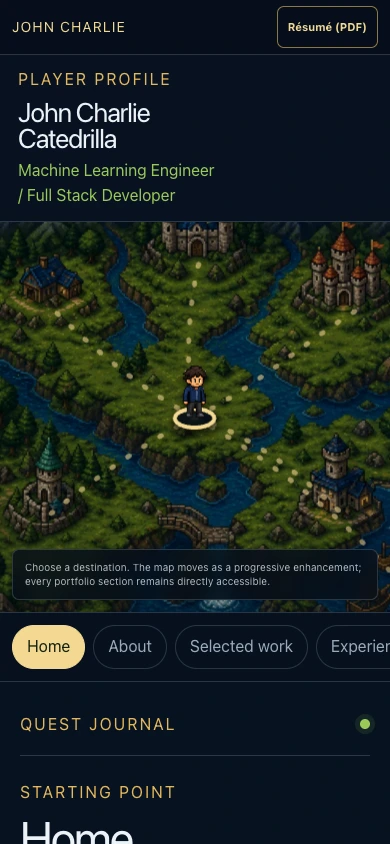
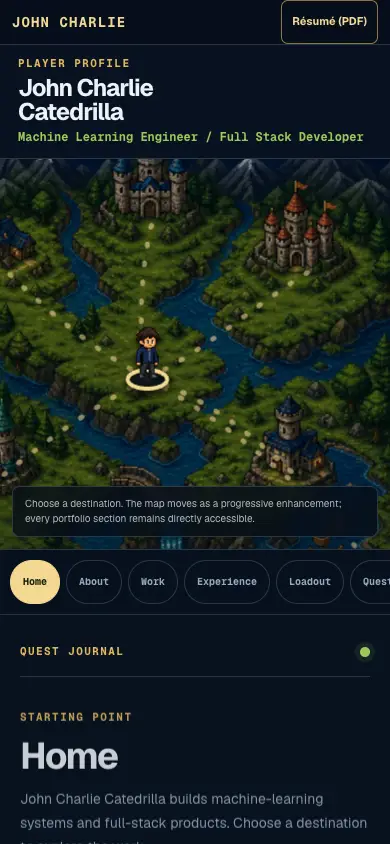
fix: align portfolio with approved review contract

diff --git a/app/home.module.css b/app/home.module.css
@@ -64,13 +64,14 @@
 }
 
 .topnavLink {
-  min-height: 42px;
+  min-height: 44px;
   display: inline-flex;
   align-items: center;
   padding: 0 14px;
   border: 1px solid transparent;
   border-radius: var(--radius-soft);
   color: var(--muted);
+  font-family: var(--font-body);
   font-size: 13px;
   font-weight: 700;
   text-decoration: none;
@@ -131,9 +132,15 @@
 
 .profileTitle {
   margin: 14px 0 8px;
+  font-family: var(--font-body);
   font-size: clamp(28px, 2.3vw, 42px);
+  font-weight: 700;
   line-height: 0.98;
   letter-spacing: -0.045em;
+}
+
+.profileNamePart {
+  display: block;
 }
 
 .role {
@@ -149,44 +156,6 @@
   line-height: 1.65;
 }
 
-.profileActions {
-  margin-top: 14px;
-  display: grid;
-  gap: 10px;
-}
-
-.primaryAction {
-  min-height: 44px;
-  display: inline-flex;
-  align-items: center;
-  justify-content: center;
-  padding: 0 16px;
-  border-radius: var(--radius-soft);
-  font: 700 12px / 1 var(--font-display);
-  letter-spacing: 0.05em;
-  text-transform: uppercase;
-  text-decoration: none;
-}
-
-.primaryAction {
-  border: 1px solid var(--line-strong);
-  color: #13200c;
-  background: var(--gold-soft);
-}
-
-.primaryAction:visited {
-  color: #13200c;
-}
-
-.primaryAction:hover {
-  background: var(--gold);
-  color: #13200c;
-}
-
-.primaryAction:active {
-  color: var(--gold-soft);
-  background: rgba(229, 183, 91, 0.35);
-}
 
 
 .profileRecord {
@@ -344,7 +313,10 @@
   color: var(--foreground);
   background: rgba(4, 13, 25, 0.88);
   box-shadow: 0 8px 24px rgba(0, 0, 0, 0.28);
-  font: 700 11px / 1 var(--font-display);
+  font-family: var(--font-display);
+  font-size: 11px;
+  font-weight: 700;
+  line-height: 1;
   letter-spacing: 0.05em;
   text-transform: uppercase;
   text-decoration: none;
@@ -452,7 +424,9 @@
 
 .journalTitle {
   margin: 10px 0 14px;
+  font-family: var(--font-body);
   font-size: clamp(30px, 3vw, 52px);
+  font-weight: 700;
   line-height: 0.96;
   letter-spacing: -0.045em;
 }
@@ -542,7 +516,9 @@
 
 .sectionTitle {
   margin: 10px 0 16px;
+  font-family: var(--font-body);
   font-size: clamp(30px, 4vw, 52px);
+  font-weight: 700;
   line-height: 0.98;
   letter-spacing: -0.04em;
 }
@@ -565,6 +541,44 @@
   max-width: 68ch;
   font-size: 15px;
   line-height: 1.75;
+}
+.approach {
+  margin-top: 30px;
+}
+
+.approachTitle {
+  margin: 0 0 16px;
+  font: 700 18px / 1.2 var(--font-display);
+}
+
+.approachList {
+  margin: 0;
+  padding: 0;
+  list-style: none;
+  display: grid;
+  grid-template-columns: repeat(auto-fit, minmax(min(100%, 220px), 1fr));
+  gap: 14px;
+}
+
+.approachList li {
+  padding: 18px;
+  border: 1px solid var(--line);
+  border-radius: var(--radius);
+  background: var(--surface-soft);
+}
+
+.approachList strong {
+  display: block;
+  margin-bottom: 8px;
+  font: 700 13px / 1.3 var(--font-display);
+  color: var(--gold-soft);
+}
+
+.approachList p {
+  margin: 0;
+  color: var(--muted);
+  font-size: 14px;
+  line-height: 1.6;
 }
 
 /* Selected work cards */
@@ -834,8 +848,8 @@
     position: sticky;
     top: 0;
     z-index: 10;
-    min-height: 48px;
-    padding: 6px 12px;
+    min-height: 44px;
+    padding: 0 12px;
   }
 
   .brand span,
@@ -860,7 +874,15 @@
 
   .profileTitle {
     margin: 2px 0;
-    font-size: 27px;
+    font-size: 24px;
+  }
+
+  .profileNamePart {
+    display: inline;
+  }
+
+  .profileNamePart:last-child {
+    display: block;
   }
 
   .role {
@@ -875,9 +897,6 @@
     display: none;
   }
 
-  .profileActions {
-    display: none;
-  }
 
   .mapViewport {
     position: relative;
@@ -907,9 +926,9 @@
 
   .destinationRail {
     display: flex;
-    gap: 8px;
+    gap: 6px;
     overflow-x: auto;
-    padding: 12px;
+    padding: 10px;
     border-top: 1px solid var(--line);
     border-bottom: 1px solid var(--line);
     background: #07111f;
@@ -921,12 +940,12 @@
     min-height: 44px;
     display: inline-flex;
     align-items: center;
-    padding: 0 14px;
+    padding: 0 12px;
     border: 1px solid var(--line);
     border-radius: 999px;
     color: var(--muted);
     background: transparent;
-    font: 700 11px / 1 var(--font-display);
+    font: 700 10px / 1 var(--font-display);
     text-decoration: none;
     white-space: nowrap;
   }
@@ -957,7 +976,7 @@
   }
 
   .journalTitle {
-    font-size: clamp(38px, 12vw, 58px);
+    font-size: clamp(34px, 9.5vw, 40px);
   }
 }
 
@@ -979,7 +998,10 @@
   }
 
   .role {
+    max-width: none;
     text-align: left;
+    font-size: 12px;
+    line-height: 1.4;
   }
 
   .mapViewport {

diff --git a/app/page.tsx b/app/page.tsx
@@ -2,6 +2,7 @@ import Link from "next/link";
 
 import {
   about,
+  approach,
   capabilities,
   contact,
   experience,
@@ -87,20 +88,12 @@ export default function Home() {
           <aside className={styles.profile} aria-labelledby="profile-name">
             <span className={styles.microLabel}>Player profile</span>
             <h1 className={styles.profileTitle} id="profile-name">
-              John Charlie
-              <br />
-              Catedrilla
+              <span className={styles.profileNamePart}>John</span>{" "}
+              <span className={styles.profileNamePart}>Charlie</span>{" "}
+              <span className={styles.profileNamePart}>Catedrilla</span>
             </h1>
             <p className={styles.role}>{experience.entries[0]?.role}</p>
             <p className={styles.profileCopy}>{hero.introduction}</p>
-            <div className={styles.profileActions}>
-              <a
-                className={styles.primaryAction}
-                href={hero.primaryAction.href}
-              >
-                {hero.primaryAction.label}
-              </a>
-            </div>
             <div className={styles.profileRecord}>
               <span className={styles.microLabel}>Record</span>
               {profileRecordRows.map((row) => (
@@ -140,6 +133,17 @@ export default function Home() {
               {about.paragraphs.map((paragraph) => (
                 <p key={paragraph}>{paragraph}</p>
               ))}
+            </div>
+            <div className={styles.approach}>
+              <h3 className={styles.approachTitle}>{approach.heading}</h3>
+              <ul className={styles.approachList}>
+                {approach.items.map((item) => (
+                  <li key={item.title}>
+                    <strong>{item.title}</strong>
+                    <p>{item.body}</p>
+                  </li>
+                ))}
+              </ul>
             </div>
           </section>
 

diff --git a/app/home-destinations.ts b/app/home-destinations.ts
@@ -33,6 +33,8 @@ export interface JournalItem {
 export interface Destination {
   /** Marker and destination-rail accessible name. */
   label: string;
+  /** Optional compact label used only in the mobile destination rail. */
+  railLabel?: string;
   /** Approved stable URL fragment. */
   fragment: string;
   /** Token anchor in the 1536×1024 map world. */
@@ -71,8 +73,8 @@ export const destinations: Record<DestinationKey, Destination> = {
   home: {
     label: "Home",
     fragment: "home",
-    x: 768,
-    y: 520,
+    x: HOME_ANCHOR.x,
+    y: HOME_ANCHOR.y,
     markerX: "50%",
     markerY: "58%",
     homeMarker: true,
@@ -119,6 +121,7 @@ export const destinations: Record<DestinationKey, Destination> = {
   },
   projects: {
     label: "Selected work",
+    railLabel: "Work",
     fragment: "selected-work",
     x: 780,
     y: 208,
@@ -174,6 +177,7 @@ export const destinations: Record<DestinationKey, Destination> = {
   },
   optional: {
     label: "Optional quests",
+    railLabel: "Quests",
     fragment: "optional-quests",
     x: 1052,
     y: 706,
@@ -194,6 +198,7 @@ export const destinations: Record<DestinationKey, Destination> = {
   },
   contact: {
     label: "Party invite",
+    railLabel: "Invite",
     fragment: "party-invite",
     x: 1180,
     y: 858,

diff --git a/app/home-world-map.tsx b/app/home-world-map.tsx
@@ -19,7 +19,13 @@ const REDUCED_MOTION_QUERY = "(prefers-reduced-motion: reduce)";
 
 /** Reads one of the approved stable fragments from a URL hash. */
 function keyFromHash(hash: string): DestinationKey | null {
-  const fragment = decodeURIComponent(hash.replace(/^#/, ""));
+  let fragment: string;
+  try {
+    fragment = decodeURIComponent(hash.replace(/^#/, ""));
+  } catch {
+    return null;
+  }
+
   return (
     DESTINATION_ORDER.find(
       (candidate) => destinations[candidate].fragment === fragment,
@@ -305,10 +311,11 @@ export function WorldMap() {
               key={key}
               href={`#${dest.fragment}`}
               className={styles.railLink}
+              aria-label={dest.label}
               aria-current={selectedKey === key ? "true" : undefined}
               onClick={(event) => handleDestinationClick(event, key)}
             >
-              {dest.label}
+              {dest.railLabel ?? dest.label}
             </a>
           );
         })}

diff --git a/app/layout.tsx b/app/layout.tsx
@@ -65,10 +65,11 @@ export default function RootLayout({
   children: React.ReactNode;
 }>) {
   return (
-    <html lang="en">
-      <body
-        className={`${geistSans.variable} ${geistMono.variable} antialiased`}
-      >
+    <html
+      lang="en"
+      className={`${geistSans.variable} ${geistMono.variable}`}
+    >
+      <body className="antialiased">
         {children}
         <Analytics />
       </body>
